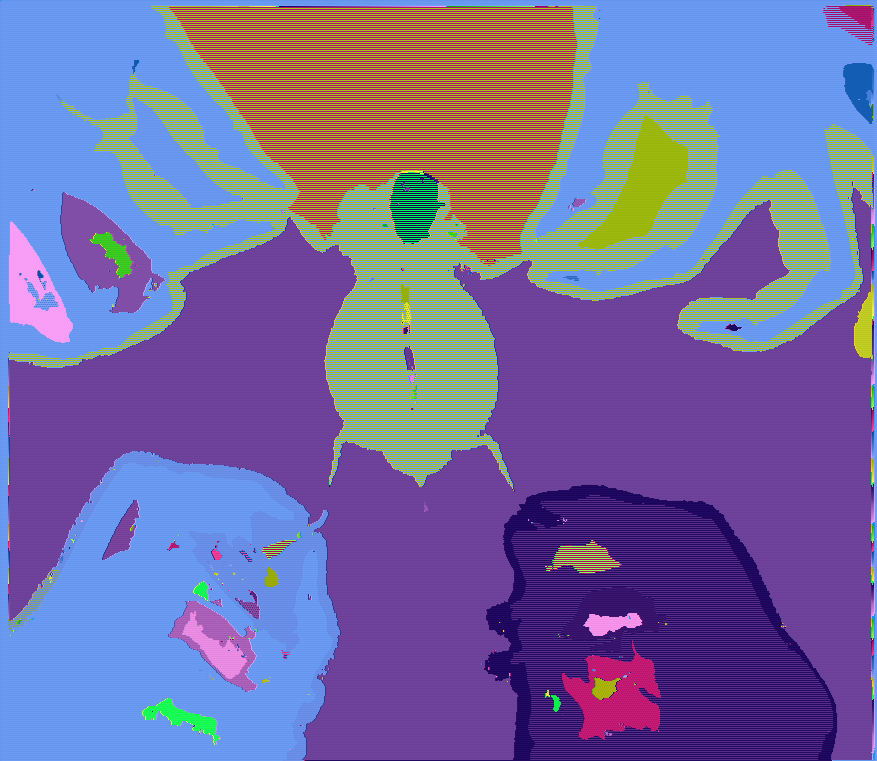
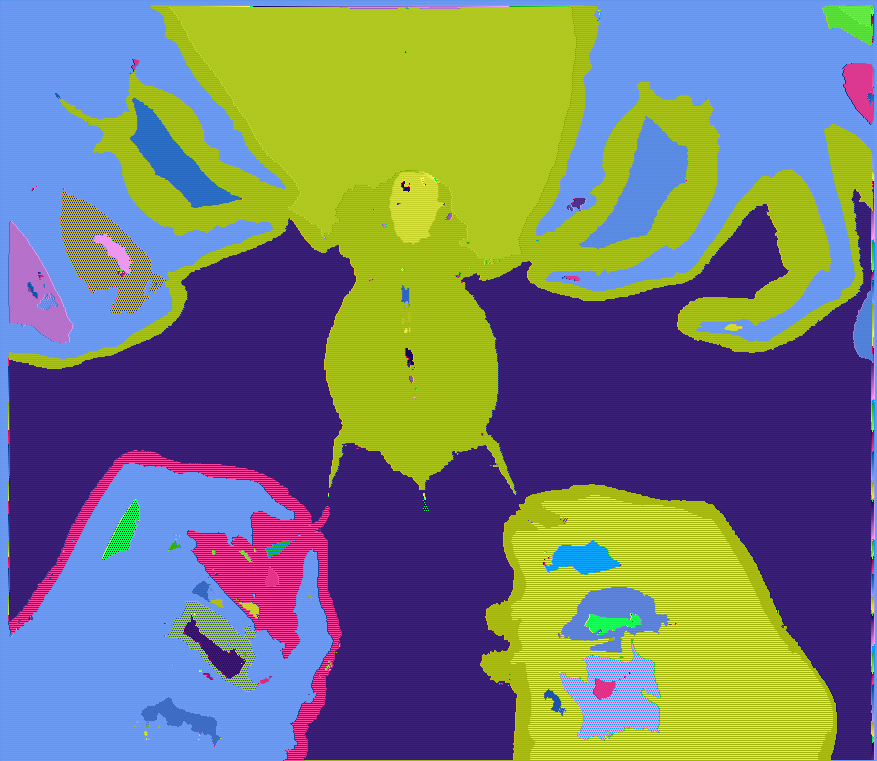
^-^

diff --git a/main.c b/main.c
@@ -9,8 +9,8 @@
 #define STB_IMAGE_WRITE_IMPLEMENTATION
 #include "stb_image_write.h"
 
-#define BLACK 95
-#define WHITE 165
+#define BLACK 93
+#define WHITE 167
 
 unsigned char* color_to_grey(unsigned char* Image, int w, int h, int n){
 	int i, k = 0;
